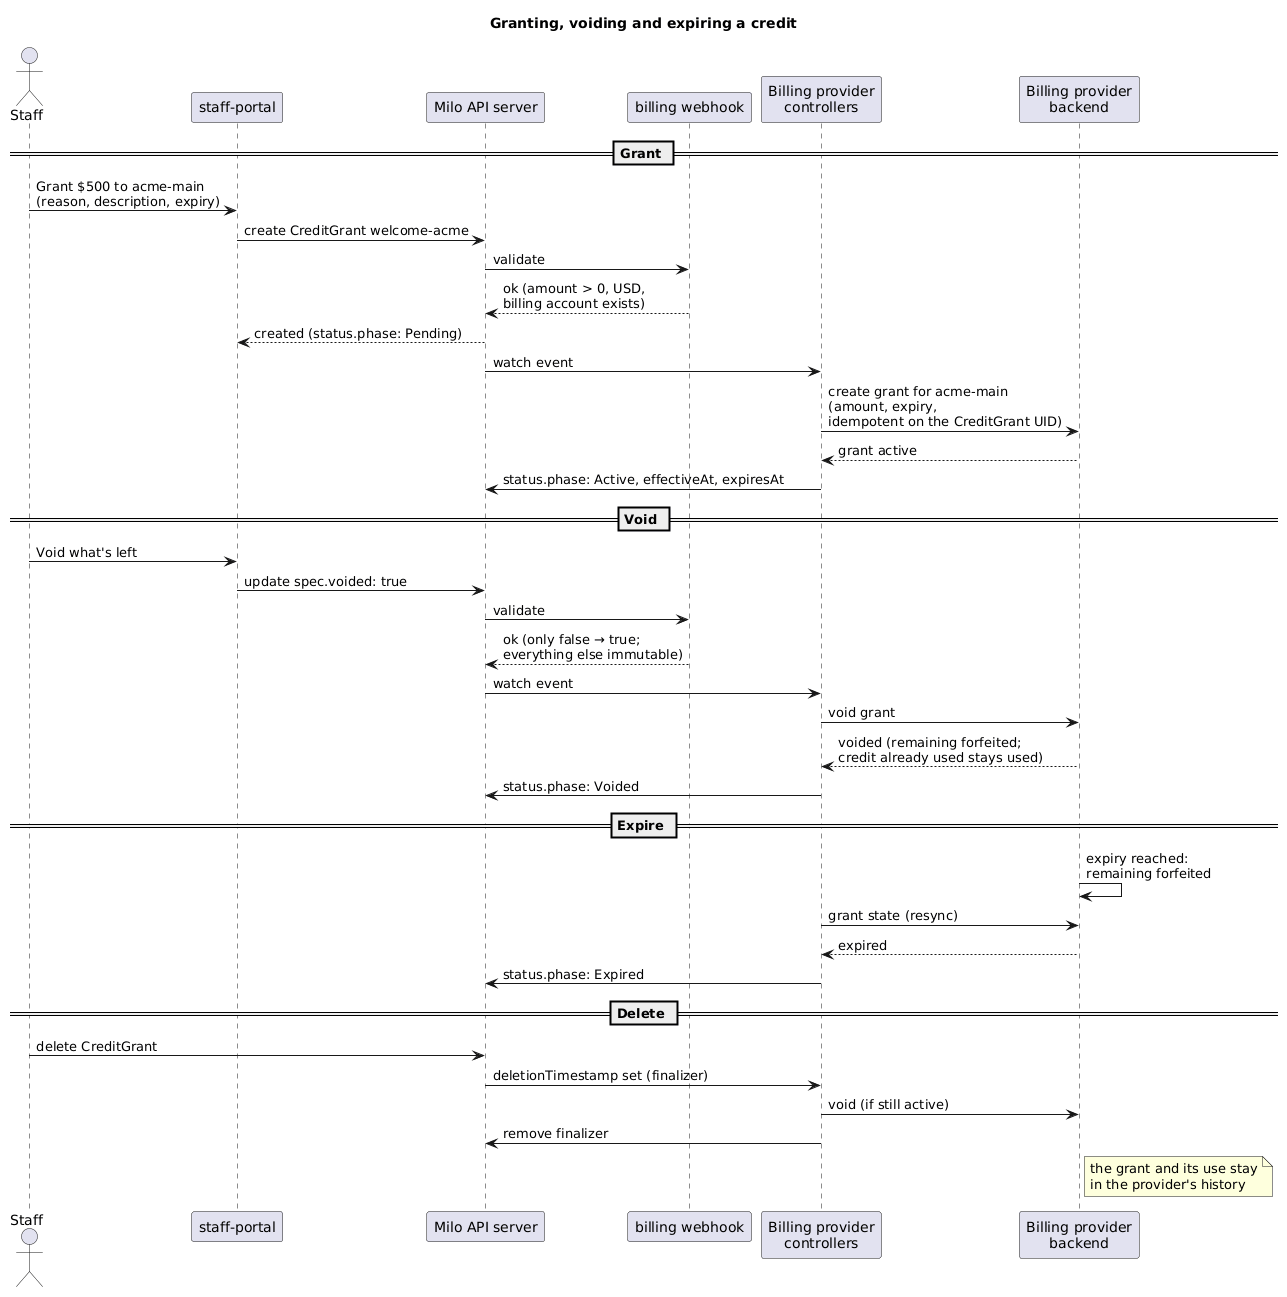
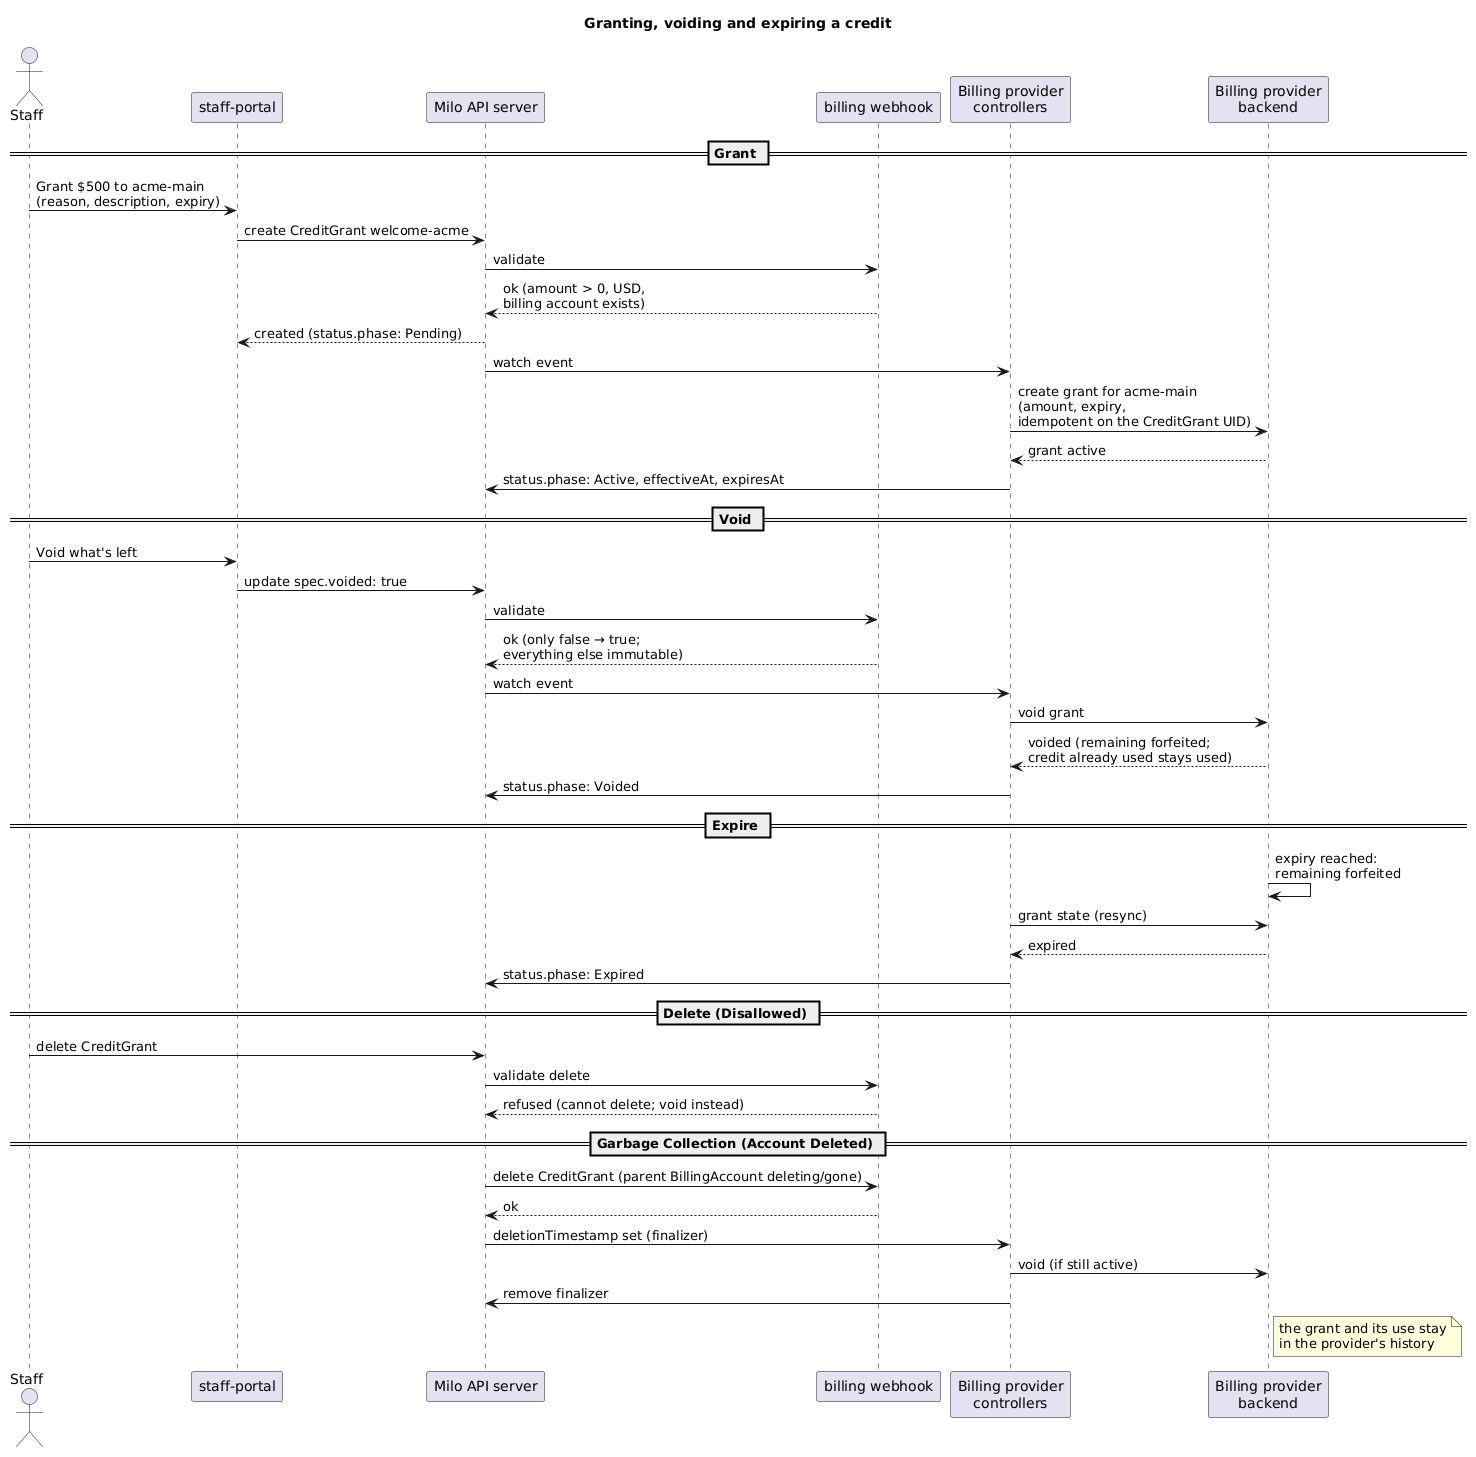
docs(credits): update credit grant deletion and cascade voiding architecture

diff --git a/docs/enhancements/credits/README.md b/docs/enhancements/credits/README.md
@@ -212,9 +212,11 @@ status:
 - **Immutable except `voided`,** enforced by billing's webhook. `voided`
   only goes from `false` to `true`.
 - **Voiding forfeits what's left.** Credit already used stays used.
-- **Deleting a CreditGrant voids it too,** through the provider's finalizer.
-  The grant and its use stay in the provider's history. Prefer
-  `voided: true` so the record stays in Milo.
+- **Deleting a CreditGrant is refused by billing's webhook.** Voiding (`voided: true`)
+  is the only mechanism to cancel or forfeit a grant, keeping an immutable audit
+  trail in Milo. Kubernetes garbage collection deletes grants when the parent
+  BillingAccount is deleting or deleted; the provider voids any active balance during
+  cascade delete before removing its finalizer.
 - **The provider links the CreditGrant to its own grant** however it links
   other resources (for example, an annotation in its own domain), and uses
   the CreditGrant UID so a retry never grants twice.
@@ -316,9 +318,9 @@ reason `Promotional` and two labels:
   credit. Staff reviewed it anyway and can grant one by hand.
 - **Only for organizations whose first billing account is set up after the
   setting exists.** Existing organizations get nothing retroactively.
-- **Void it rather than delete it.** A deleted `signup-credit` would let the
-  controller grant a new one, so billing's webhook refuses deleting a grant
-  with that label; void it instead.
+- **Void it rather than delete it.** Deleting CreditGrants is refused by billing's
+  webhook (voiding is the only mechanism), preventing a deleted `signup-credit` from
+  re-triggering automatic grants.
 - **Removing the setting stops new grants;** existing ones are untouched.
 
 **Card fingerprint.** `PaymentMethodCardDetails` gets an opaque
@@ -357,7 +359,7 @@ them, whoever created them.
 | `Invoice.status.creditsApplied` | billing |
 | `PaymentMethod.status.details.card.fingerprint` | billing (type), payment-method provider (sets it) |
 | `signupCredit` on ServiceConfiguration, grant creation for new accounts | service-catalog |
-| Grant sync, void on `voided`/delete, `BillingAccountBalance` serving, invoice credits projection | billing provider |
+| Grant sync, void on `voided` or cascade delete, `BillingAccountBalance` serving, invoice credits projection | billing provider |
 | Billing page: balance, credits, invoice credit line | cloud-portal |
 | Grant and void credits for an account | staff-portal |
 
@@ -369,7 +371,7 @@ provider's own design.
 | Requirement | Detail |
 | --- | --- |
 | Grant | Create a grant of a USD amount for the billing account, with an optional expiry, idempotently (a retried grant never grants twice) |
-| Void | Forfeit what's left of a grant; credit already used stays used. Idempotent |
+| Void | Forfeit what's left of a grant when `voided: true` or during cascade delete; credit already used stays used. Idempotent |
 | State | Report a grant as pending, active, expired or voided |
 | Order of use | Use the grant expiring first first; forfeit expired credit |
 | Live balance | Report the balance after the usage metered so far, before it is invoiced, priced as the invoice will price it |
@@ -382,8 +384,8 @@ credits.
 
 ### IAM
 
-- `CreditGrant`: create, update (void) and delete for staff only, through a
-  new `billing.miloapis.com-credit-admin` role bound to staff in infra.
+- `CreditGrant`: create and update (void) for staff only (direct deletion is refused),
+  through a new `billing.miloapis.com-credit-admin` role bound to staff in infra.
   Organization members with billing view access can `get` and `list` them
   (`billing.miloapis.com-viewer`).
 - `BillingAccountBalance`: `ProtectedResource` with permission `get`, parent
@@ -421,8 +423,9 @@ docker run --rm -v "$PWD":/data plantuml/plantuml -tpng '/data/*.puml'
    Product decides whether to set it, the amount and the expiry.
 2. **Who can grant?** Staff only in v0. Should support be capped (for
    example, grants over $1,000 need a second approver)?
-3. **Delete or void.** Should deleting a `CreditGrant` be refused, so
-   voiding is the only way and the record always stays in Milo?
+3. **Delete or void.** Resolved: deleting a `CreditGrant` is refused by the webhook.
+   Voiding is the only mechanism to cancel a credit, preserving an immutable audit trail in Milo.
+   (The only exception is cascading deletion when the parent `BillingAccount` is deleted/gone).
 4. **Shown on invoices how?** One "Credit applied" line, or the credit
    spread over the lines it paid for? Providers may only support one of
    them.
